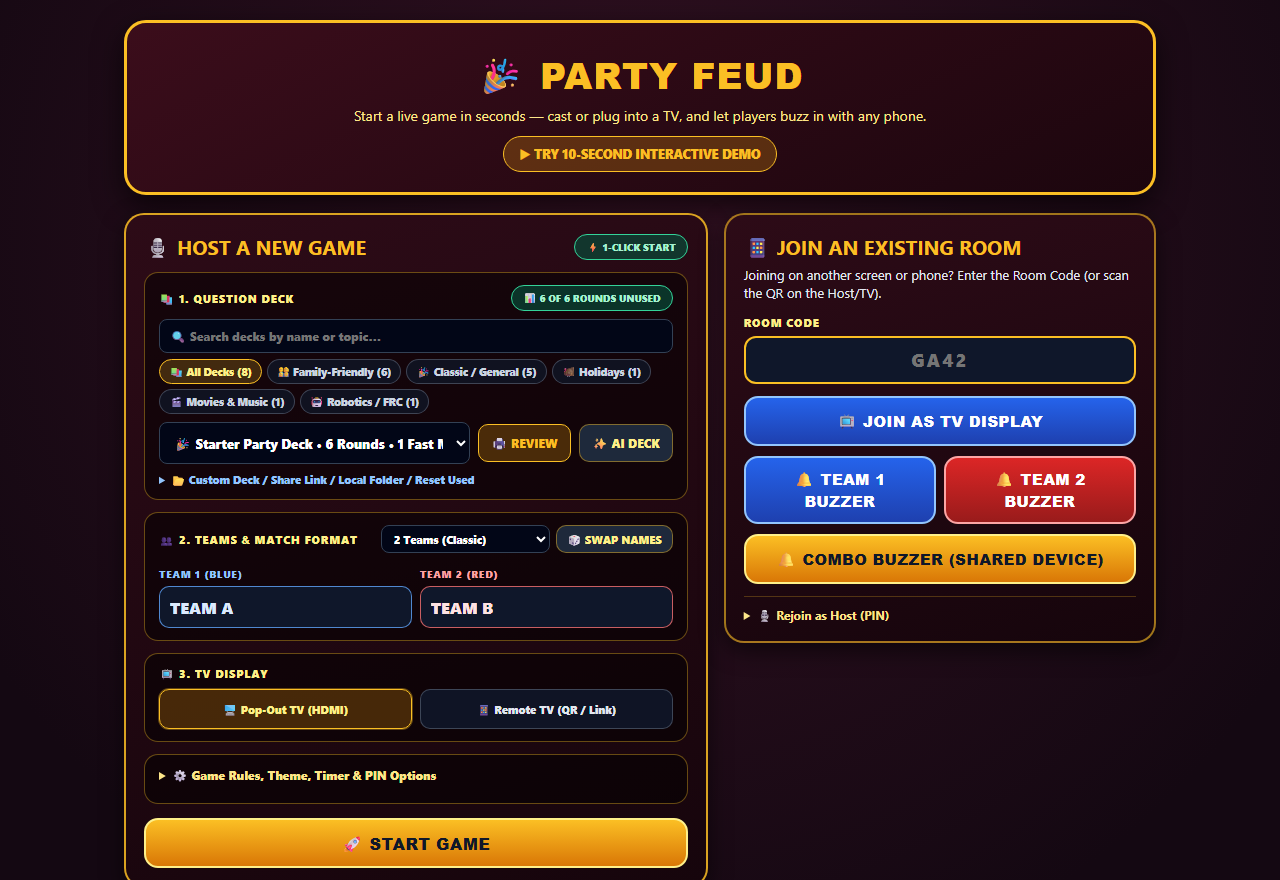
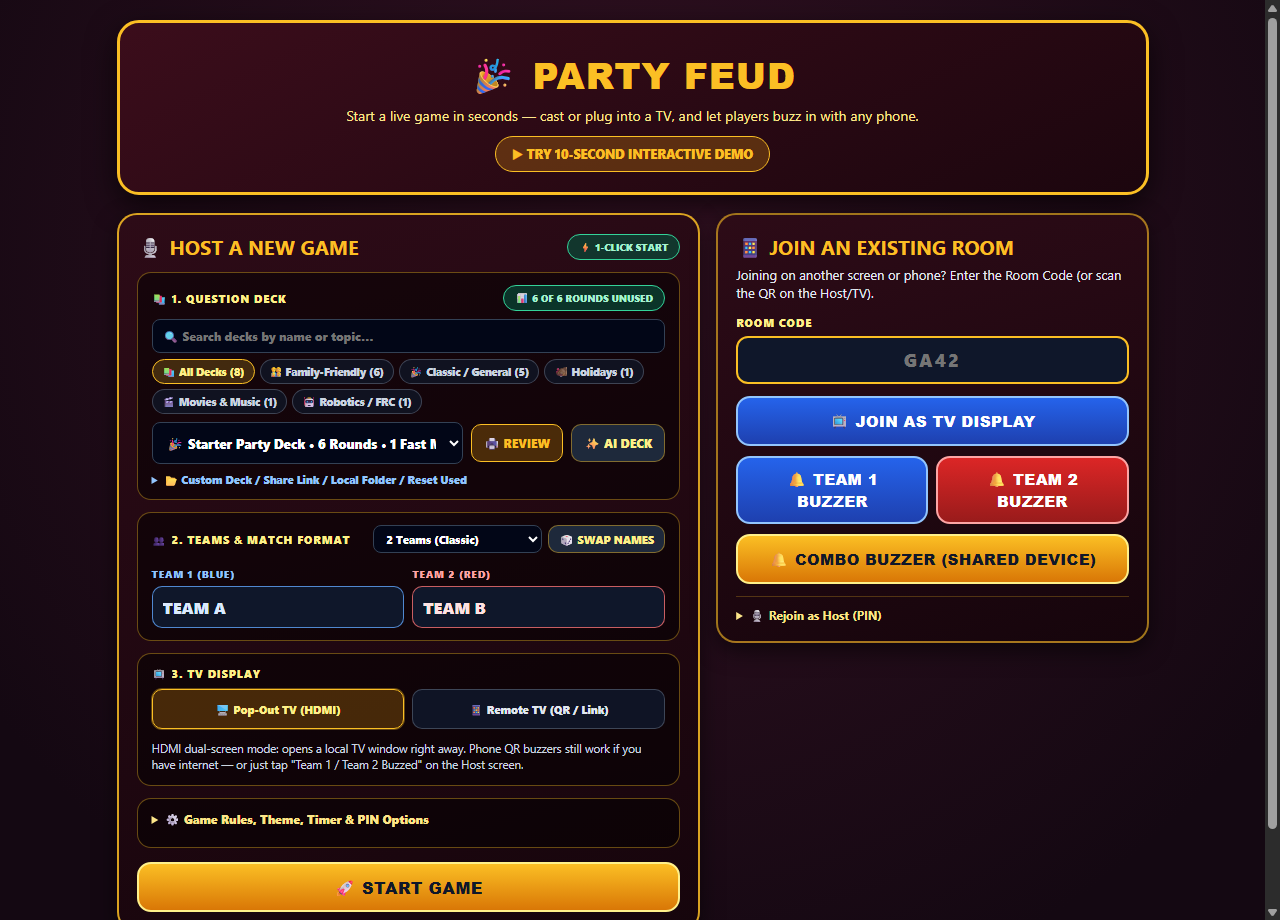
feat(ux): add live TV/buzzer mode hints for online vs. offline HDMI play
- Add #tvModeSetupHint under Lobby Step 3 (index.html, js/app.js) with
  dynamic online/offline/file:// guidance explaining HDMI dual-screen play and
  Host-side buzzer controls when offline, plus online/offline event listeners.
- Surface #qrFileModeHint in the Connect TV & Buzzers modal when offline as
  well as on file://, and clarify offline buzzer fallback instructions in
  README.md.
- Assert #tvModeSetupHint rendering in scripts/test-ui-e2e.js, refresh
  docs/screenshots/lobby.png, and bump cache-busting version to v20261122a
  across index.html, review.html, and sw.js.

Changed region(s): [[0.0938, 0.0, 0.9062, 1.0], [0.9688, 0.0, 1.0, 1.0]]

diff --git a/js/app.js b/js/app.js
@@ -851,16 +851,41 @@ window.Feud = window.Feud || {};
 
   function syncTvSetupModeUi() {
     const mode = getSelectedTvSetupMode();
+    const isFile = isFileProtocol();
+    const isOffline = typeof navigator !== "undefined" && navigator.onLine === false;
     const qrBtn = document.getElementById("tvModeBtnQr");
     if (qrBtn) {
-      qrBtn.disabled = isFileProtocol();
-      qrBtn.title = isFileProtocol()
+      qrBtn.disabled = isFile;
+      qrBtn.title = isFile
         ? "Remote TV QR requires HTTP/HTTPS (use Pop-Out TV on file://)"
         : "Show Remote TV QR code & link right after starting";
     }
     document.querySelectorAll("#tvModeChoiceGroup .tv-mode-btn").forEach((btn) => {
       btn.classList.toggle("is-selected", btn.dataset.tvMode === mode);
     });
+
+    const hintEl = document.getElementById("tvModeSetupHint");
+    if (hintEl) {
+      if (mode === "local") {
+        if (isFile || isOffline) {
+          hintEl.textContent =
+            'Offline HDMI mode: Host & TV sync locally with no internet. Phone QR buzzers require internet — have players buzz in verbally/on the table and tap "Team 1 / Team 2 Buzzed" on the Host screen.';
+          hintEl.style.color = "#fde68a";
+        } else {
+          hintEl.textContent =
+            'HDMI dual-screen mode: opens a local TV window right away. Phone QR buzzers still work if you have internet — or just tap "Team 1 / Team 2 Buzzed" on the Host screen.';
+          hintEl.style.color = "#cbd5e1";
+        }
+      } else if (isOffline) {
+        hintEl.textContent =
+          "⚠ Remote TV & Phone QR buzzers require internet. Switch to Pop-Out TV (HDMI) for offline play.";
+        hintEl.style.color = "#fde68a";
+      } else {
+        hintEl.textContent =
+          "Remote TV mode: shows a QR code & link to open the TV board on another device (phone QR buzzers also available).";
+        hintEl.style.color = "#cbd5e1";
+      }
+    }
   }
 
   function selectTvSetupMode(mode) {
@@ -2458,9 +2483,10 @@ window.Feud = window.Feud || {};
     if (qrTextEl) qrTextEl.textContent = code;
 
     const fileProto = isFileProtocol();
+    const isOffline = typeof navigator !== "undefined" && navigator.onLine === false;
     document.getElementById("qrRemoteTvBox")?.classList.toggle("hidden", fileProto);
     document.getElementById("qrBuzzersSection")?.classList.toggle("hidden", fileProto);
-    document.getElementById("qrFileModeHint")?.classList.toggle("hidden", !fileProto);
+    document.getElementById("qrFileModeHint")?.classList.toggle("hidden", !fileProto && !isOffline);
     const diag = Feud.getSyncDiagnostics ? Feud.getSyncDiagnostics() : { relayOk: true };
     updateQrRelayWarning(diag.relayOk);
 
@@ -5235,6 +5261,8 @@ Rules:
       });
       joinRoomInputEl.addEventListener("focus", () => refreshLobbyBuzzerLocks(true));
     }
+    window.addEventListener("online", syncTvSetupModeUi);
+    window.addEventListener("offline", syncTvSetupModeUi);
     window.addEventListener("focus", () => {
       if (activeRole === "lobby") refreshLobbyBuzzerLocks(true);
       if (activeRole === "host" && openedTvPopupWindow && openedTvPopupWindow.closed) {

diff --git a/index.html b/index.html
@@ -31,7 +31,7 @@
   <meta name="twitter:image:alt" content="Party Feud 16:9 TV Display Board showing revealed survey answers and scores" />
   <link rel="manifest" href="./manifest.webmanifest" />
   <link rel="icon" type="image/svg+xml" href="./icons/icon.svg" />
-  <link rel="stylesheet" href="./css/styles.css?v=20261120a" />
+  <link rel="stylesheet" href="./css/styles.css?v=20261122a" />
 </head>
 <body>
 
@@ -203,7 +203,7 @@
       </div>
 
       <div id="qrFileModeHint" class="hidden" style="font-size:12px; color:#fde68a; line-height:1.45; text-align:left; background:rgba(15,23,42,0.7); border:1px solid rgba(251,191,36,0.3); border-radius:12px; padding:10px 12px; width:100%;">
-        ⚠ Phone QR buzzers require serving over HTTP/HTTPS (such as GitHub Pages or a local web server). On offline <code>file://</code>, use <strong>🖥 Open Local TV Window</strong> above for HDMI dual-screen play!
+        ⚠ Phone QR buzzers require HTTP/HTTPS and an internet connection. When playing offline (or via <code>file://</code>), use <strong>🖥 Open Local TV Window</strong> for HDMI dual-screen play, have players buzz in verbally/on the table, and tap <strong>🔔 Team 1 / Team 2 Buzzed</strong> on the Host screen!
       </div>
 
       <div id="qrLanHostWrap" class="hidden" style="width:100%; display:flex; flex-direction:column; gap:6px; margin-top:4px;">
@@ -467,6 +467,7 @@
                 <button type="button" class="tv-mode-btn" data-tv-mode="local" onclick="selectTvSetupMode('local')">🖥 Pop-Out TV (HDMI)</button>
                 <button type="button" id="tvModeBtnQr" class="tv-mode-btn" data-tv-mode="qr" onclick="selectTvSetupMode('qr')">📱 Remote TV (QR / Link)</button>
               </div>
+              <div id="tvModeSetupHint" style="font-size:11.5px; color:#cbd5e1; line-height:1.4; margin-top:4px;"></div>
             </div>
 
             <!-- Collapsible Game Rules, Theme, Timer & PIN -->
@@ -971,16 +972,16 @@
     </button>
   </section>
 
-  <footer id="appBuildBadge" class="app-build-badge">Build v20261120a</footer>
+  <footer id="appBuildBadge" class="app-build-badge">Build v20261122a</footer>
 
   <!-- Classic script tags work both on GitHub Pages (https://) and locally via file:// -->
   <script src="https://unpkg.com/mqtt/dist/mqtt.min.js" async></script>
-  <script src="./js/audio.js?v=20261120a"></script>
-  <script src="./js/state.js?v=20261120a"></script>
-  <script src="./js/formats.js?v=20261120a"></script>
-  <script src="./js/decks.js?v=20261120a"></script>
-  <script src="./js/sync.js?v=20261120a"></script>
-  <script src="./js/views.js?v=20261120a"></script>
-  <script src="./js/app.js?v=20261120a"></script>
+  <script src="./js/audio.js?v=20261122a"></script>
+  <script src="./js/state.js?v=20261122a"></script>
+  <script src="./js/formats.js?v=20261122a"></script>
+  <script src="./js/decks.js?v=20261122a"></script>
+  <script src="./js/sync.js?v=20261122a"></script>
+  <script src="./js/views.js?v=20261122a"></script>
+  <script src="./js/app.js?v=20261122a"></script>
 </body>
 </html>

diff --git a/scripts/test-ui-e2e.js b/scripts/test-ui-e2e.js
@@ -501,13 +501,15 @@ async function runStep(name, fn) {
         deckOptionCount: document.getElementById('deckManagerSelect').options.length,
         tagPillCount: document.querySelectorAll('#deckTagPills .deck-tag-pill').length,
         starterFormat3Disabled: document.querySelector('#setupMatchFormatSelect option[value="3"]')?.disabled,
-        starterFormat4Disabled: document.querySelector('#setupMatchFormatSelect option[value="4"]')?.disabled
+        starterFormat4Disabled: document.querySelector('#setupMatchFormatSelect option[value="4"]')?.disabled,
+        tvModeHint: document.getElementById('tvModeSetupHint')?.textContent.trim() || ''
       })`);
 
       assert.strictEqual(lobbyState.title, "Party Feud");
       assert.strictEqual(lobbyState.lobbyVisible, true);
       assert.ok(lobbyState.deckOptionCount >= 8, `Expected >= 8 decks (Starter + 7 JSON decks), got ${lobbyState.deckOptionCount}`);
       assert.ok(lobbyState.tagPillCount >= 4, `Expected >= 4 category tag pills, got ${lobbyState.tagPillCount}`);
+      assert.ok(lobbyState.tvModeHint.length > 10, "Setup screen should display TV & buzzer mode hint");
       // Starter deck has 5 regular rounds; with 4 rounds/game, 3-team (8 rounds) & 4-team (12 rounds) must be disabled!
       assert.strictEqual(lobbyState.starterFormat3Disabled, true, "3-Team format should be disabled on 5-round Starter deck at 4 rounds/game");
       assert.strictEqual(lobbyState.starterFormat4Disabled, true, "4-Team format should be disabled on 5-round Starter deck at 4 rounds/game");

diff --git a/review.html b/review.html
@@ -566,9 +566,9 @@
     <main id="reviewContentRoot"></main>
   </div>
 
-  <script src="./js/state.js?v=20261120a"></script>
-  <script src="./js/formats.js?v=20261120a"></script>
-  <script src="./js/decks.js?v=20261120a"></script>
+  <script src="./js/state.js?v=20261122a"></script>
+  <script src="./js/formats.js?v=20261122a"></script>
+  <script src="./js/decks.js?v=20261122a"></script>
   <script>
     (function () {
       const Feud = window.Feud || {};

diff --git a/sw.js b/sw.js
@@ -3,7 +3,7 @@
 // Enables PWA installation & offline app shell caching over HTTPS / localhost.
 // =====================================================================
 
-const CACHE_NAME = "party-feud-v20261120a";
+const CACHE_NAME = "party-feud-v20261122a";
 
 const APP_SHELL = [
   "./",

diff --git a/README.md b/README.md
@@ -95,6 +95,9 @@ Launch straight into any bundled question deck with one click — or open the pr
 ### Option 2: Laptop + HDMI TV (Works Even Offline)
 1. Plug your laptop into your TV in **Extended Display** mode (works even with Wi-Fi turned off by opening `index.html`).
 2. Leave **🖥 Pop-Out TV (HDMI)** selected and click **🚀 Start Game** — the TV window pops out automatically; drag it onto your TV and click **⛶ Fullscreen**.
+3. **Buzzers in HDMI mode:**
+   * **With internet:** Phone QR buzzers still work normally alongside your HDMI TV.
+   * **Completely offline (`file://` or Wi-Fi off):** Phone QR buzzers require an internet connection and will **not** connect offline — have players buzz in verbally or slap the table, and click **`🔔 Team 1 Buzzed`** / **`🔔 Team 2 Buzzed`** directly on the Host screen instead.
 
 ---
 
